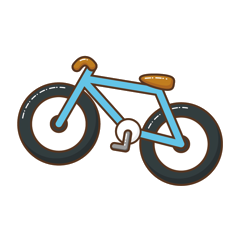
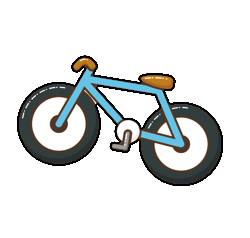
estilos seccion hobbies

diff --git a/hobbies.css b/hobbies.css
@@ -1,5 +1,4 @@
-.skills{
-
+.hobbies{
     background-color: var(--color-marshmellow);
     height: 50vh;
     display: flex;
@@ -8,40 +7,38 @@
     justify-content: center;
 }
 
-.skills__pack{
+.hobbies__pack{
     display: flex;
     align-items: center;
     justify-content: center;
     gap: 2rem;
+    
 }
 
-.skills__box{
-    text-align: center;
+.hobbies__box{
+   text-align: center;
+    
 }
 
-.skills__box>img{
+.hobbies__box>img{
+    width: 15rem;
+    height: 15rem;
+    object-fit: contain;
+    
     filter: saturate(10%);
     transition: all .7s;
     
 }
 
-.skills__box .github-invert{
-    filter: invert(0);
-    transition-duration: .7s;
-    
-    
-}
-.skills__box .github-invert:hover{
+
+.hobbies__box .github-invert:hover{
     filter: invert(1);
     
     
     
 }
-.skills__box>img:hover{
+.hobbies__box>img:hover{
     filter: saturate(100%);
     transition: all .7s;
     
 }
-
-
-

diff --git a/index.html b/index.html
@@ -15,6 +15,7 @@
     <link rel="stylesheet" href="./hero.css" />
     <link rel="stylesheet" href="./me.css" />
     <link rel="stylesheet" href="./skills.css" />
+    <link rel="stylesheet" href="./hobbies.css" />
     
     <!-- Fuentes -->
 
@@ -153,7 +154,7 @@
 
         <!-- Sección de hobbies -->
         <section class="hobbies" id="hobbies">
-            <div class="g-container">
+            <div class="g-container clasic">
                 <h2 class=" hobbies__titulo g-titulo">Aficiones</h2>
                 <div class="hobbies__pack">
                     <div class="hobbies__box item__box-com">

diff --git a/globales.css b/globales.css
@@ -21,7 +21,7 @@
 
 
 .clasic{
-    padding: 2rem 0;
+    padding: 2rem 2rem;
     background: var(--color-light);
     border: 4px solid var(--color-light-reverse);
     box-shadow: 15px 15px 0px -5px var(--color-light-reverse);

diff --git a/me.css b/me.css
@@ -1,5 +1,5 @@
 .sobre-mi{
-    background-color: var(--color-highlight);
+    background-color: var(--color-marshmellow--color-highlight);
     height: 100vh;
     display: flex;
     flex-direction: column;
